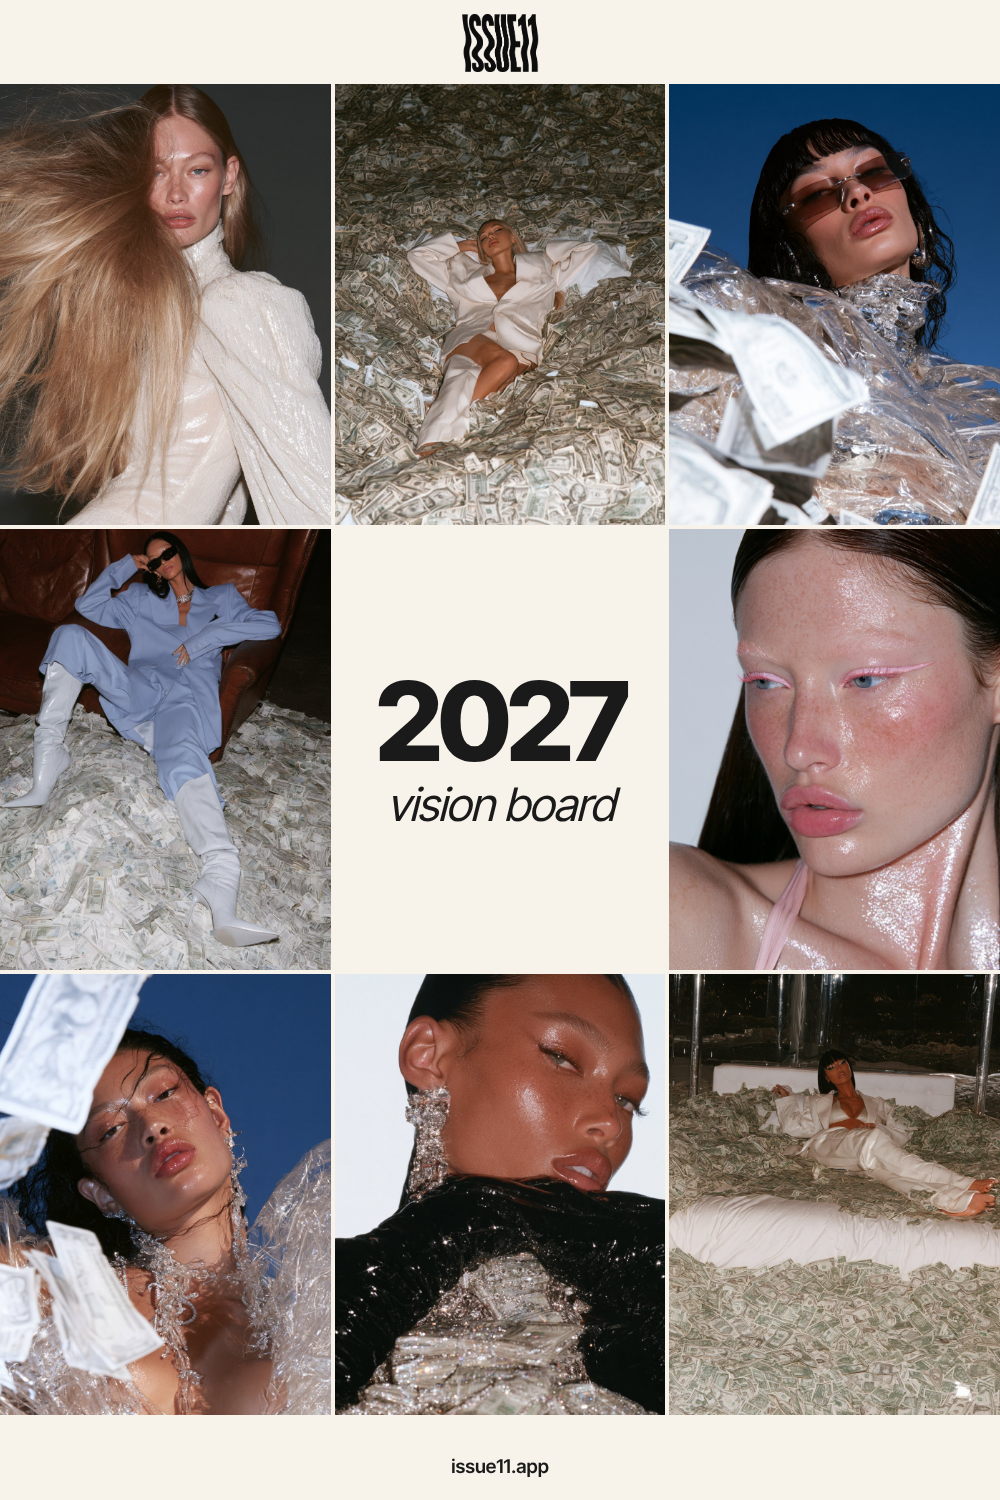
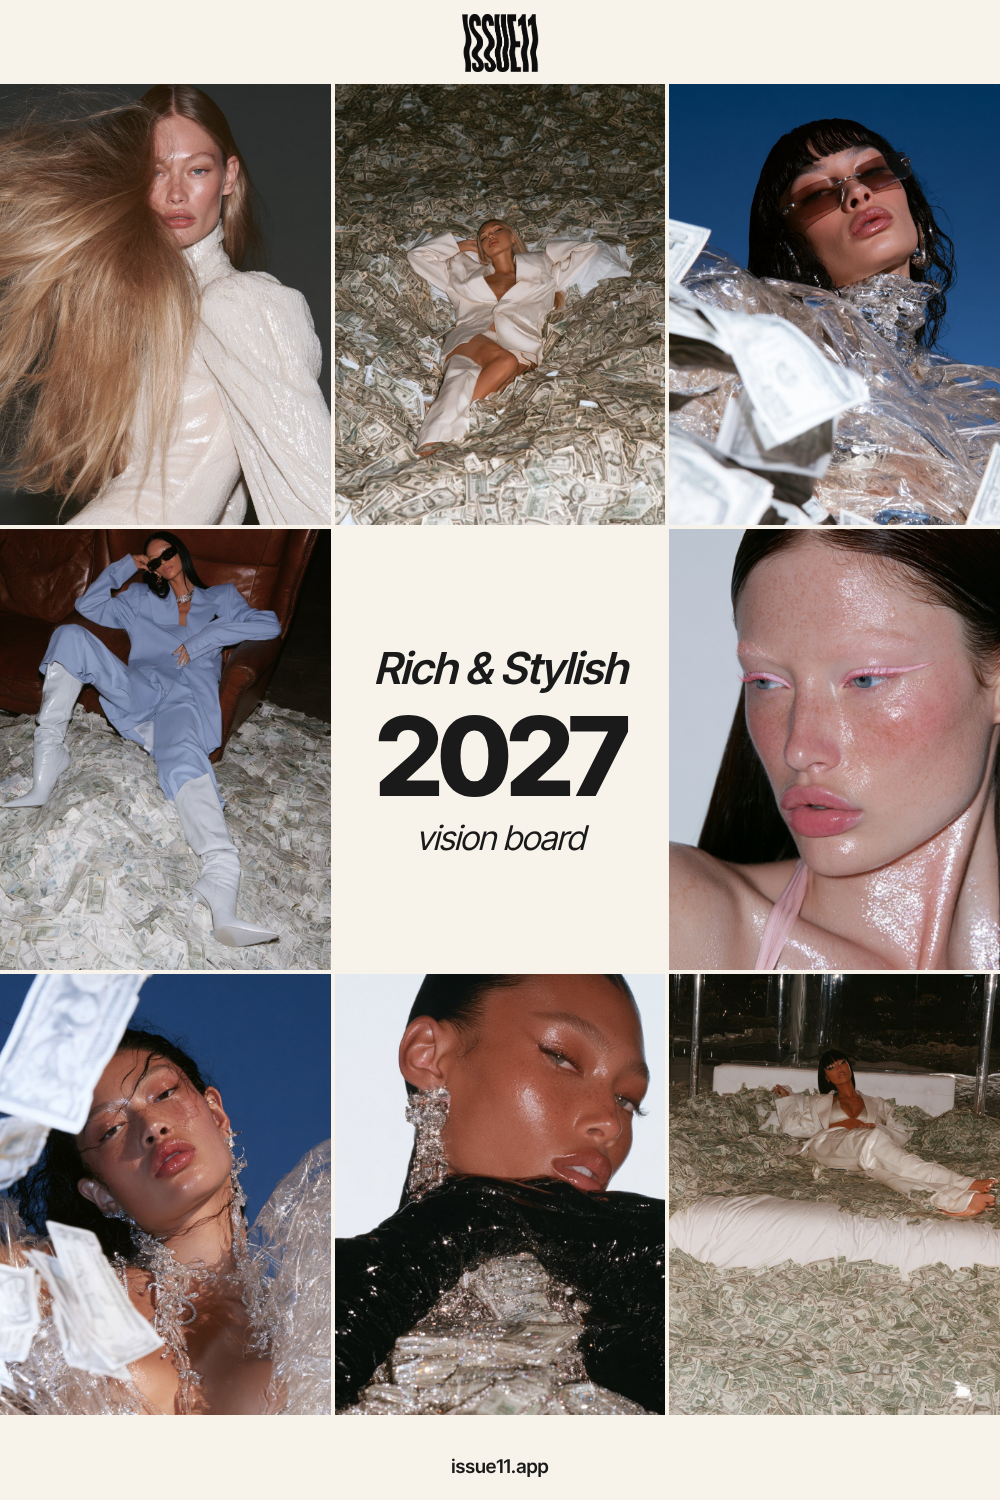
CT147: add Megan's line Rich & Stylish 2027
Claude-Session: https://claude.ai/code/session_01YGtmQppBCBt9nypMHzxSp1

Changed region(s): [[0.372, 0.4293, 0.651, 0.5827]]

diff --git a/drafts/pinterest/color-test/CT147.dc.html b/drafts/pinterest/color-test/CT147.dc.html
@@ -27,13 +27,14 @@ img.f{position:absolute;object-fit:cover;display:block}
 .g img{width:100%;aspect-ratio:3/4;object-fit:cover;display:block}
 .tc{aspect-ratio:3/4;background:#F7F2EA;display:flex;flex-direction:column;align-items:center;justify-content:center;color:#1A1A1A}
 .tc div{font-weight:800;font-size:110px;letter-spacing:-.05em;line-height:1}
-.tc span{font-style:italic;font-weight:400;font-size:46px;letter-spacing:-.02em}
+.tc em{font-style:italic;font-weight:600;font-size:44px;letter-spacing:-.02em;margin-bottom:6px}
+.tc span{font-size:34px !important;margin-top:6px;font-style:italic;font-weight:400;font-size:46px;letter-spacing:-.02em}
 .url{bottom:22px}
 
 </style>
 </helmet>
 <div class="pin">
-<img class="tl " src="/_blob/d196614efc6265e2205729134fb523b8" alt="ISSUE11"><div class="g"><img src="/_blob/7feef729a80262f2d7e85c6834638c97" alt="Editorial photo (AI-generated)"><img src="/_blob/b45e07b7551e4b017a09232ac4418b81" alt="Editorial photo (AI-generated)"><img src="/_blob/7aaf709ad270b109bdee2b20f48353e5" alt="Editorial photo (AI-generated)"><img src="/_blob/93627e588ae16e5cf86dc60bcbae487b" alt="Editorial photo (AI-generated)"><div class="tc"><div>2027</div><span>vision board</span></div><img src="/_blob/4e778283bc9ea80ceaef2cab845c3108" alt="Editorial photo (AI-generated)"><img src="/_blob/1b47a89319b10d2a520ecd22bff402a1" alt="Editorial photo (AI-generated)"><img src="/_blob/860f329959c42e11a32a5dcb35db8203" alt="Editorial photo (AI-generated)"><img src="/_blob/73fc9a482935b42b1e643e02ebfc3a48" alt="Editorial photo (AI-generated)"></div><div class="url" style="color:#1A1A1A">issue11.app</div>
+<img class="tl " src="/_blob/d196614efc6265e2205729134fb523b8" alt="ISSUE11"><div class="g"><img src="/_blob/7feef729a80262f2d7e85c6834638c97" alt="Editorial photo (AI-generated)"><img src="/_blob/b45e07b7551e4b017a09232ac4418b81" alt="Editorial photo (AI-generated)"><img src="/_blob/7aaf709ad270b109bdee2b20f48353e5" alt="Editorial photo (AI-generated)"><img src="/_blob/93627e588ae16e5cf86dc60bcbae487b" alt="Editorial photo (AI-generated)"><div class="tc"><em>Rich &amp; Stylish</em><div>2027</div><span>vision board</span></div><img src="/_blob/4e778283bc9ea80ceaef2cab845c3108" alt="Editorial photo (AI-generated)"><img src="/_blob/1b47a89319b10d2a520ecd22bff402a1" alt="Editorial photo (AI-generated)"><img src="/_blob/860f329959c42e11a32a5dcb35db8203" alt="Editorial photo (AI-generated)"><img src="/_blob/73fc9a482935b42b1e643e02ebfc3a48" alt="Editorial photo (AI-generated)"></div><div class="url" style="color:#1A1A1A">issue11.app</div>
 </div>
 </x-dc>
 <script type="text/x-dc" data-dc-script data-props='{"$preview":{"width":1000,"height":1500}}'>

diff --git a/drafts/pinterest/color-test/gen16.py b/drafts/pinterest/color-test/gen16.py
@@ -3,7 +3,7 @@ import gen9, gen8, gen13
 from gen import doc
 from gen13 import S, T, U, A, s
 ks=['hair','cashpile','sky','suit',None,'pinkgloss','flying','earring','bedcash']
-cells=''.join(f'<img src="{s(k)}" {A}>' if k else '<div class="tc"><div>2027</div><span>vision board</span></div>' for k in ks)
+cells=''.join(f'<img src="{s(k)}" {A}>' if k else '<div class="tc"><em>Rich &amp; Stylish</em><div>2027</div><span>vision board</span></div>' for k in ks)
 P={'CT147':doc('Color test 147 · vision board grid, full photos (128 redo)',S+"""
 .pin{background:#F7F2EA}
 .tl{top:14px;height:58px}
@@ -11,7 +11,8 @@ P={'CT147':doc('Color test 147 · vision board grid, full photos (128 redo)',S+"
 .g img{width:100%;aspect-ratio:3/4;object-fit:cover;display:block}
 .tc{aspect-ratio:3/4;background:#F7F2EA;display:flex;flex-direction:column;align-items:center;justify-content:center;color:#1A1A1A}
 .tc div{font-weight:800;font-size:110px;letter-spacing:-.05em;line-height:1}
-.tc span{font-style:italic;font-weight:400;font-size:46px;letter-spacing:-.02em}
+.tc em{font-style:italic;font-weight:600;font-size:44px;letter-spacing:-.02em;margin-bottom:6px}
+.tc span{font-size:34px !important;margin-top:6px;font-style:italic;font-weight:400;font-size:46px;letter-spacing:-.02em}
 .url{bottom:22px}
 """,f"""{T()}<div class="g">{cells}</div>{U('#1A1A1A')}""")}
 for k,v in P.items(): open(f'{k}.dc.html','w').write(v)

diff --git a/drafts/pinterest/affirmations/BANK.md b/drafts/pinterest/affirmations/BANK.md
@@ -90,3 +90,4 @@ The other 15 candidates are rejected.
 
 ## Angel numbers
 See ANGEL-NUMBERS.md (✅ approved by Megan Nov 16: "Ok this is excellent". Use word for word).
+- Rich & Stylish 2027 (Megan, Nov 17, for pin CT147)
